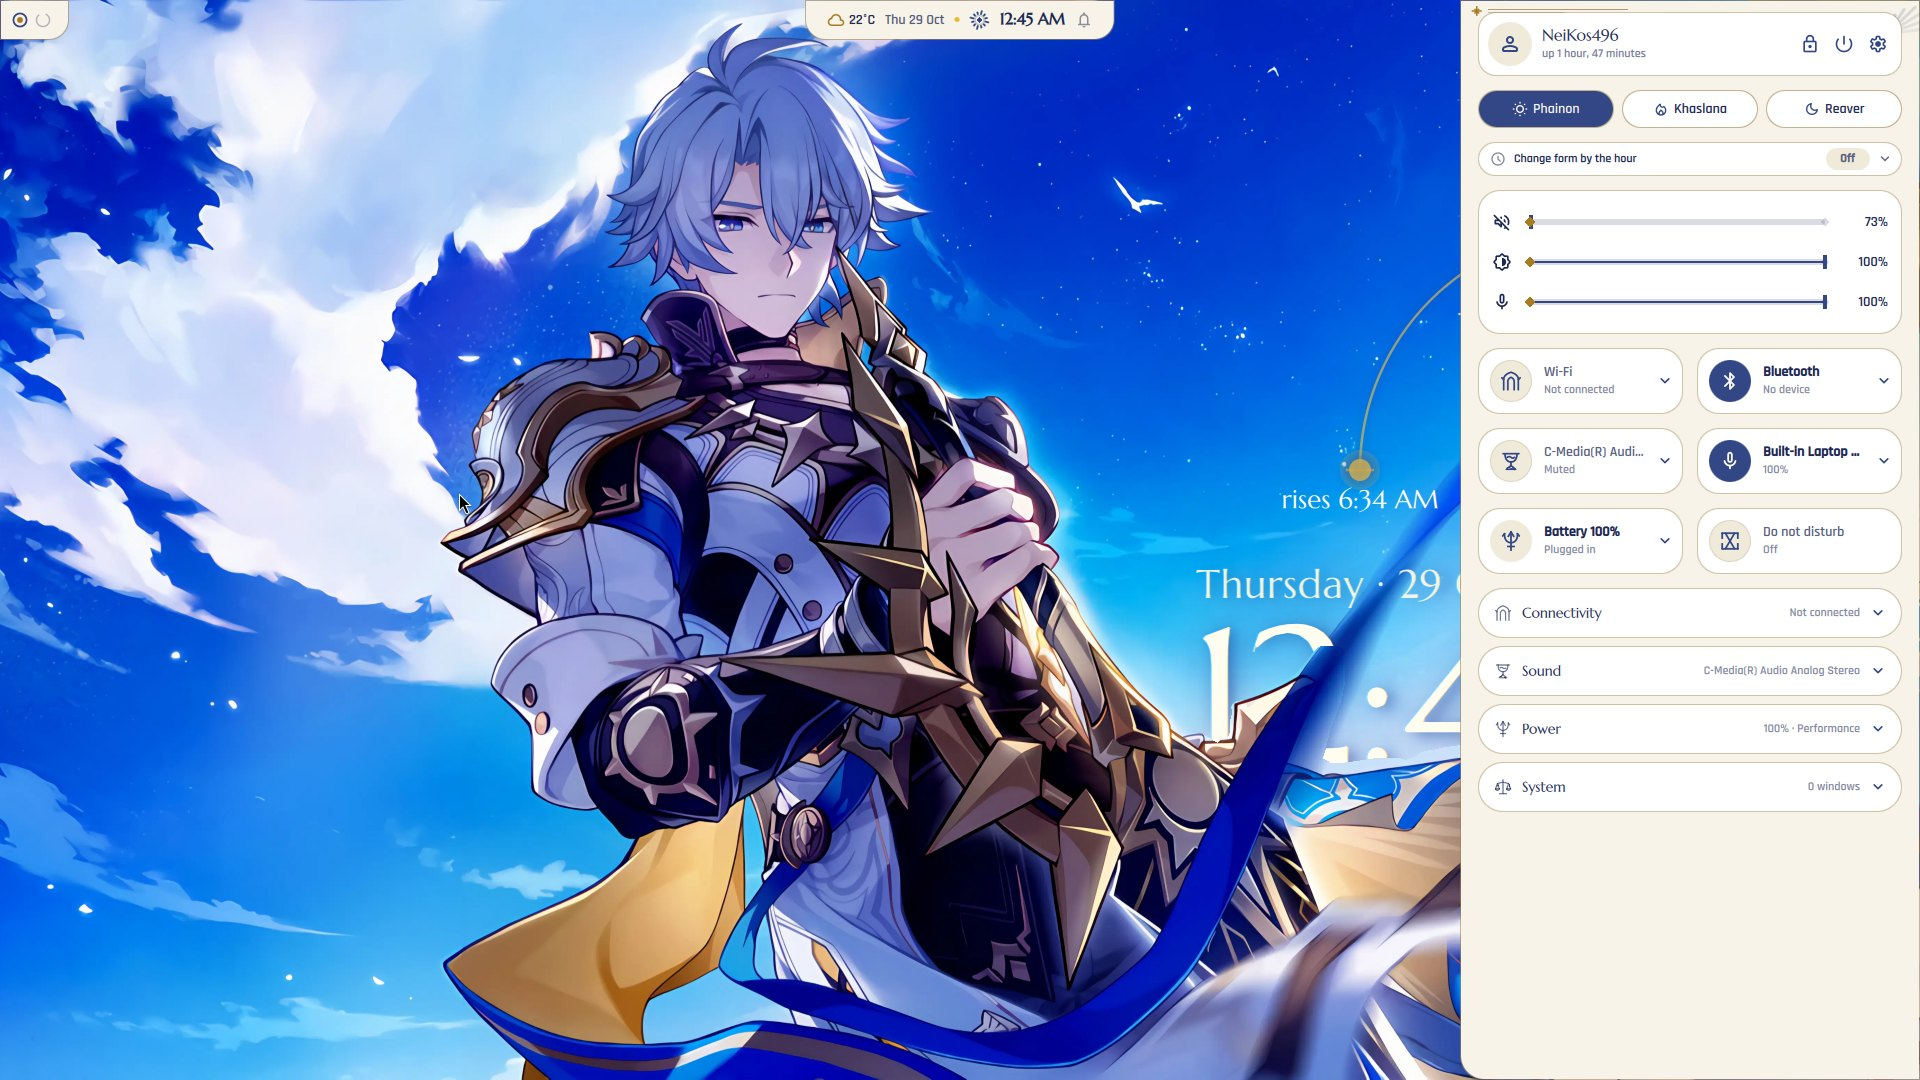
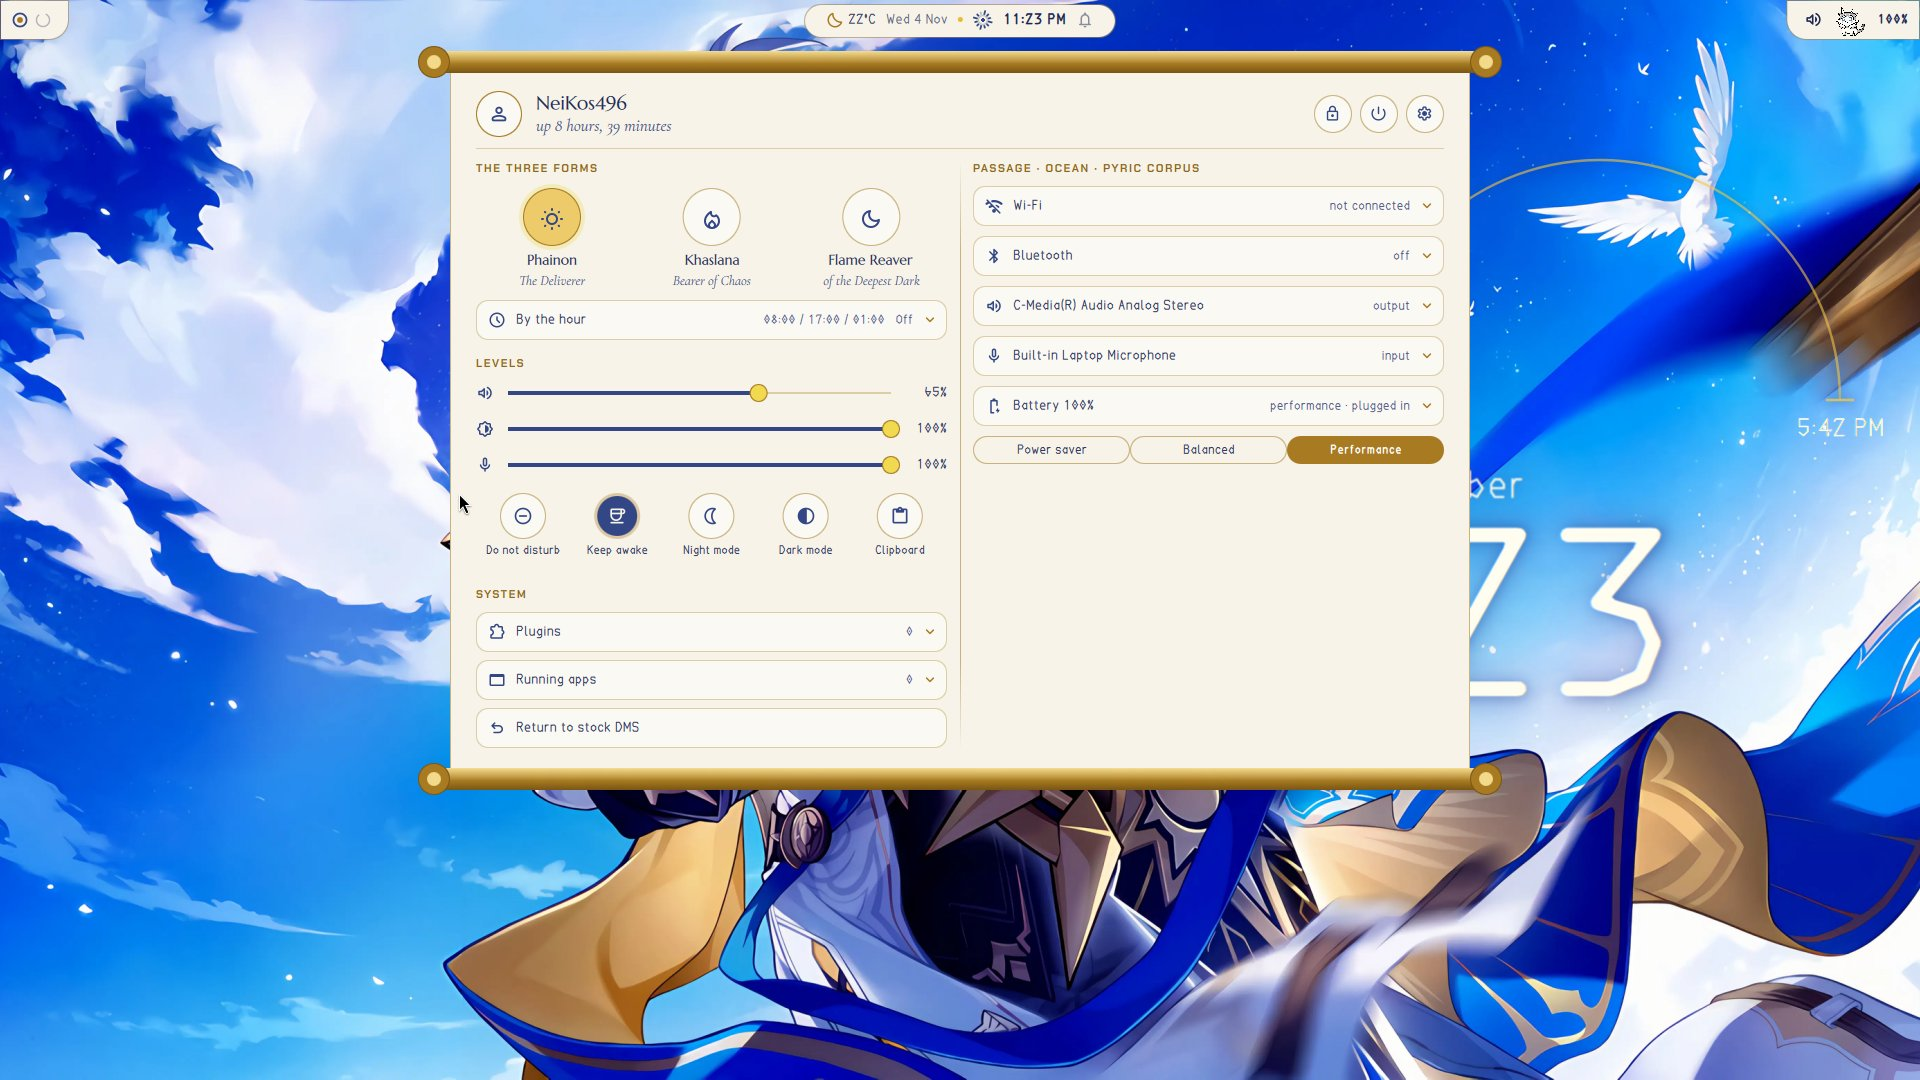
docs: new screenshots of all three forms, dashboard views and known issues
Refreshes every README screenshot, adds a full-views sheet per form,
updates Khaslana's description (golden-blood marks, island wings) and
lists the known issues. The sandbox (COREFLAME_DEMO=1) now shows the
demo name and no avatar in the control panel, so screenshots carry no
personal info.

diff --git a/overlay/Modules/Coreflame/ControlPanel.qml b/overlay/Modules/Coreflame/ControlPanel.qml
@@ -480,7 +480,7 @@ PanelWindow {
                 anchors.fill: parent
                 anchors.margins: 1
                 source: {
-                    const img = PortalService.profileImage ?? "";
+                    const img = Quickshell.env("COREFLAME_DEMO") === "1" ? "" : (PortalService.profileImage ?? "");
                     return img === "" ? "" : (img.startsWith("/") ? "file://" + img : img);
                 }
                 sourceSize: Qt.size(96, 96)
@@ -523,7 +523,8 @@ PanelWindow {
                 Text {
                     id: who
                     text: {
-                        const n = UserInfoService.fullName || UserInfoService.username || "NeiKos496";
+                        // screenshot sandboxes (COREFLAME_DEMO=1) show the demo name, never the real one
+                        const n = Quickshell.env("COREFLAME_DEMO") === "1" ? "NeiKos496" : (UserInfoService.fullName || UserInfoService.username || "NeiKos496");
                         return panelWin.rv ? n.toLowerCase() : n;
                     }
                     font.family: panelWin.kh ? "Cinzel" : (panelWin.ph ? "Marcellus" : "Chakra Petch")

diff --git a/README.md b/README.md
@@ -9,7 +9,7 @@ Pick a form and the whole desktop follows: colours, shapes, fonts, wallpaper, GT
 | Form | Mood |
 |---|---|
 | **Phainon** | Light. Paper, lapis blue and a bit of sun gold. Soft round corners. |
-| **Khaslana** | Navy-black and gold, sharp cut corners, a little glitchy on purpose. |
+| **Khaslana** | Obsidian black, gold and blood red. Sharp cut corners, small golden-blood marks, the Black Tide dripping under every panel, a little glitchy on purpose. |
 | **Flame Reaver** | Charcoal, bone and one violet. Quiet, lowercase, text-heavy, almost no animation; panels hang like his torn cloak. |
 
 ## What it looks like
@@ -26,6 +26,10 @@ Pick a form and the whole desktop follows: colours, shapes, fonts, wallpaper, GT
 |---|---|
 | ![Phainon launcher](screenshots/phainon-launcher.jpg) | ![Phainon power menu](screenshots/phainon-power.jpg) |
 
+The dashboard's full views (music, messages, screen time, network, wallpapers):
+
+![Phainon dashboard views](screenshots/phainon-views.jpg)
+
 ### Khaslana
 
 ![Khaslana desktop](screenshots/khaslana-desktop.jpg)
@@ -37,6 +41,10 @@ Pick a form and the whole desktop follows: colours, shapes, fonts, wallpaper, GT
 | Launcher | Power menu |
 |---|---|
 | ![Khaslana launcher](screenshots/khaslana-launcher.jpg) | ![Khaslana power menu](screenshots/khaslana-power.jpg) |
+
+The dashboard's full views (music, messages, screen time, network, wallpapers):
+
+![Khaslana dashboard views](screenshots/khaslana-views.jpg)
 
 ### Flame Reaver
 
@@ -50,10 +58,14 @@ Pick a form and the whole desktop follows: colours, shapes, fonts, wallpaper, GT
 |---|---|
 | ![Flame Reaver launcher](screenshots/reaver-launcher.jpg) | ![Flame Reaver power menu](screenshots/reaver-power.jpg) |
 
+The dashboard's full views (music, messages, screen time, network, wallpapers):
+
+![Flame Reaver dashboard views](screenshots/reaver-views.jpg)
+
 ## What you get
 
 - **A clock set into the wallpaper.** A large clock stands behind each form's character: whatever is near in the picture (him, his cape, the tendrils) passes in front of it. Each form adds one quiet piece in the same layer: Phainon a sun path across the sky, Khaslana the twelve Flame-Chase embers, the Flame Reaver a three-line readout of weather, battery and what's playing.
-- **No bar.** A dynamic island at the top centre (clock, date, weather, what's playing, notifications), with a small workspace tab on the left and a status tab on the right.
+- **No bar.** A dynamic island at the top centre (clock, date, weather, what's playing, notifications), with a small workspace tab on the left and a status tab on the right. In Khaslana the island wears a pair of small golden wings.
 - **Island pop-ups.** Volume, brightness, caps lock, mic mute, touchpad and workspace changes show for a moment in the island instead of DMS's own pop-ups. Each one follows its on/off switch in DMS Settings. With Do not disturb set to end at a time, the island says until when ("Muted until 18:00").
 - **Dashboard** that drops out of the island: clock, system load, calendar with your events, flame-chase, weather, notifications, music, network and screen time on one page. Each card opens its own full view, drawn in the form's own frame (Phainon's parchment sheet, Khaslana's gold-seamed mosaic over the Black Tide, the Flame Reaver's shards). The clock opens a full time view: the date in full, a world clock on a small globe (add cities by searching), a timer and a stopwatch. The wallpaper picker sits under the Flame-Chase card.
 - **Notifications live in the dashboard.** The island bell and the notifications keybind open the dashboard's messages view. It lists the messages still open first, then the ones DMS saved to its history, grouped by app; "Clear all" clears both. A notification that arrives while a panel is open shows along that panel's top edge.
@@ -85,6 +97,16 @@ You need:
 **Fair warning:** I built this for my own laptop (Fedora, niri, one 1080p screen) and that is the only machine it has been used on. It works for me; it might not work the same on yours. Different distro, screen size, DMS version or hardware can all trip it up, so treat it as something to try and tinker with, not a polished release.
 
 This is built on the DMS 2.0 interface. On another DMS version it may not load. If that happens the safety net simply drops you back to stock DMS.
+
+## Known issues
+
+- **"Clear all" also wipes saved history.** In the messages view it dismisses the open notifications and deletes the ones DMS saved to its history. There is no undo.
+- **Message bodies show one line.** Longer notifications are cut off in the messages view; open the app to read the rest.
+- **Your location shows in two views.** The weather view names your city (DMS looks it up from your IP) and the time view shows your time zone. Mind that before you share screenshots.
+- **Screen time colours leak into DMS Settings.** The weekly chart takes the form's colours, and DMS Settings' screen time page uses the same chart, so it shows them there too.
+- **Not everything has been seen on screen.** The lock screen's golden-blood marks (Khaslana) were only checked in code, not on a real lock.
+- **The sandbox can crash after many reloads.** The nested test copy (`dev/run-nested.sh`) crashed once after a long run of hot reloads and went blank. Close it and start it again.
+- **One machine only.** See the fair warning above: Fedora, niri, one 1080p laptop screen.
 
 ## Install
 
